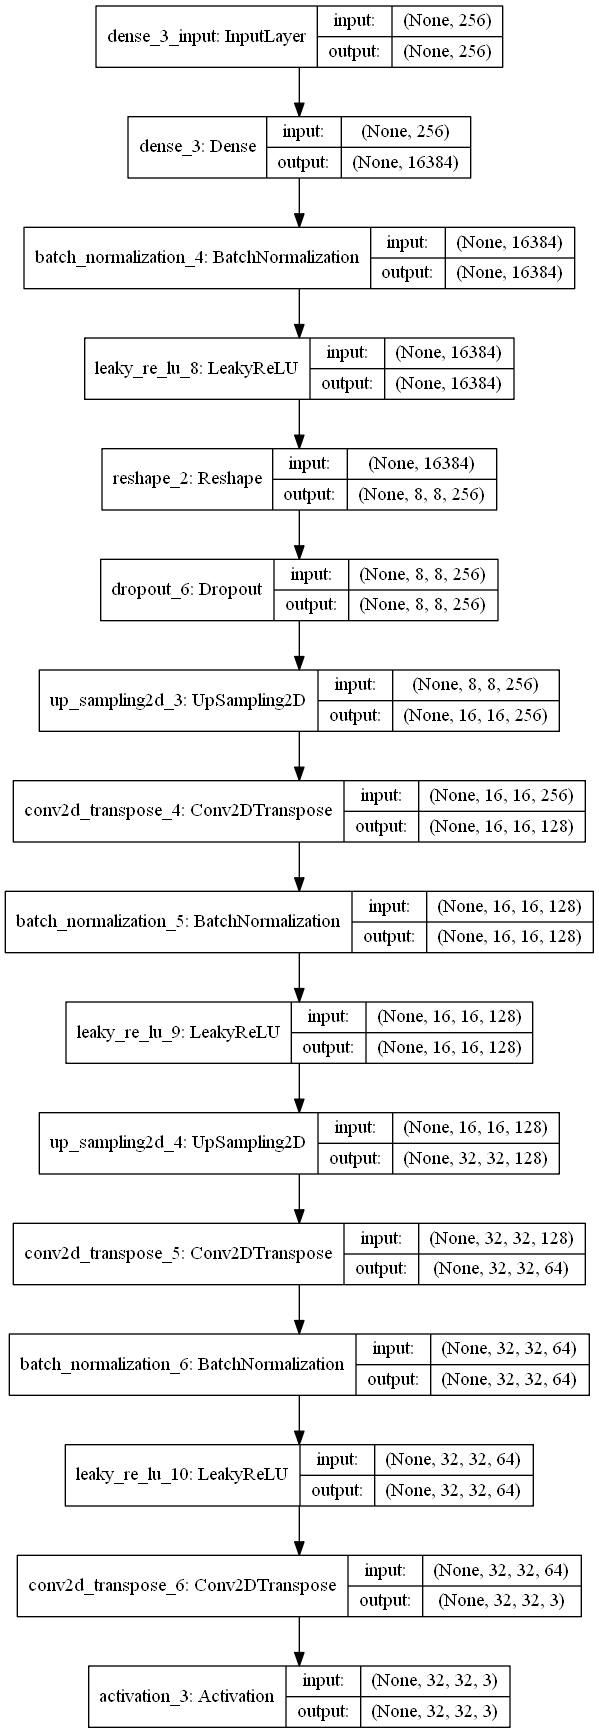
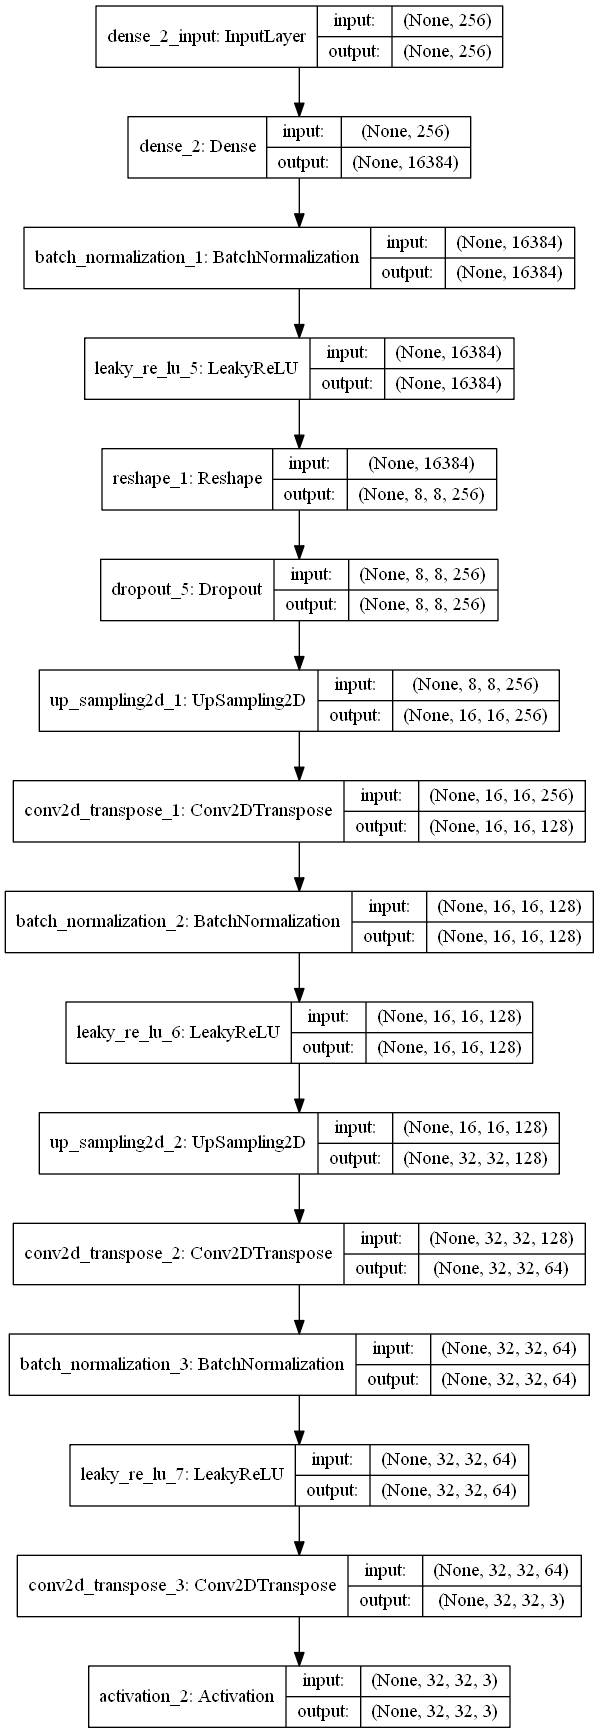
New charts for LSGAN

diff --git a/LSGAN/main_MNIST.py b/LSGAN/main_MNIST.py
@@ -143,6 +143,8 @@ GAN.compile(loss='mse', optimizer=optimizer2, metrics=['accuracy'])
 
 # Print out architecture of GAN
 GAN.summary()
+# Save model architecture as .PNG
+plot_model(GAN, to_file='LSGAN.png', show_shapes=True, show_layer_names=True)
 
 #==========================Plot image function=================================
 def plot_output(noise, step):
@@ -213,35 +215,40 @@ def train_gan(X, model, batch_size, epoch, save_interval, pretrain=False, pretra
     gan_performance = []
     d_accuracy = []
     gan_accuracy = []
+    
+    batch_per_epoch = int(round(X.shape[0]/batch_size))
+    
     for i in range(epoch):
-        #=====================Train discriminator==============================
-        # Randomly select n (batch_size) number of images from X
-        images_real = X[np.random.randint(0,X.shape[0], size=batch_size), :, :, :]
-        # Generate n number of 100D noise vectors
-        noise = np.random.normal(0.0, 1.0, size=[batch_size, noise_len])
-        # Produce n number of fake images with generator
-        images_fake = G.predict(noise)
-        # Concat real and fake images
-        x = np.concatenate((images_real, images_fake))
-        # Create labels
-        y = np.ones([2*batch_size, 1]) 
-        y[batch_size:, :] = 0
-        # Shuffle the real and fake images
-        x,y = shuffle(x,y)
-        # Make discriminator trainable
-        D.trainable = True
-        # Train discriminator on the sampled data
-        d_loss = D.train_on_batch(x, y)
-        
-        #=========================Train GAN====================================
-        # Create labels
-        y = np.ones([batch_size, 1])
-        # Generate n number of 100D noise vectors
-        noise = np.random.normal(0.0, 1.0, size=[batch_size, noise_len])
-        # Freeze weights in discriminator
-        D.trainable = False
-        # Train GAN on the generated data
-        gan_loss = GAN.train_on_batch(noise, y)
+        for j in tqdm(range(batch_per_epoch)):
+            #====================Train discriminator===========================
+            half_batch = int(batch_size/2)
+            # Randomly select n (batch_size) number of images from X
+            images_real = X[np.random.randint(0,X.shape[0], size=half_batch), :, :, :]
+            # Generate n number of 100D noise vectors
+            noise = np.random.normal(0.0, 1.0, size=[half_batch, noise_len])
+            # Produce n number of fake images with generator
+            images_fake = G.predict(noise)
+            # Concat real and fake images
+            x = np.concatenate((images_real, images_fake))
+            # Create labels
+            y = np.ones([batch_size, 1]) 
+            y[half_batch:, :] = 0
+            # Shuffle the real and fake images
+            x,y = shuffle(x,y)
+            # Make discriminator trainable
+            D.trainable = True
+            # Train discriminator on the sampled data
+            d_loss = D.train_on_batch(x, y)
+            
+            #========================Train GAN=================================
+            # Create labels
+            y = np.ones([batch_size, 1])
+            # Generate n number of 100D noise vectors
+            noise = np.random.normal(0.0, 1.0, size=[batch_size, noise_len])
+            # Freeze weights in discriminator
+            D.trainable = False
+            # Train GAN on the generated data
+            gan_loss = GAN.train_on_batch(noise, y)
         # Print loss and accuracy values 
         log_msg = "epoch %d: [D loss: %f, acc: %f]" % (i, d_loss[0], d_loss[1])
         log_msg = "%s  [GAN loss: %f, acc: %f]" % (log_msg, gan_loss[0], gan_loss[1])
